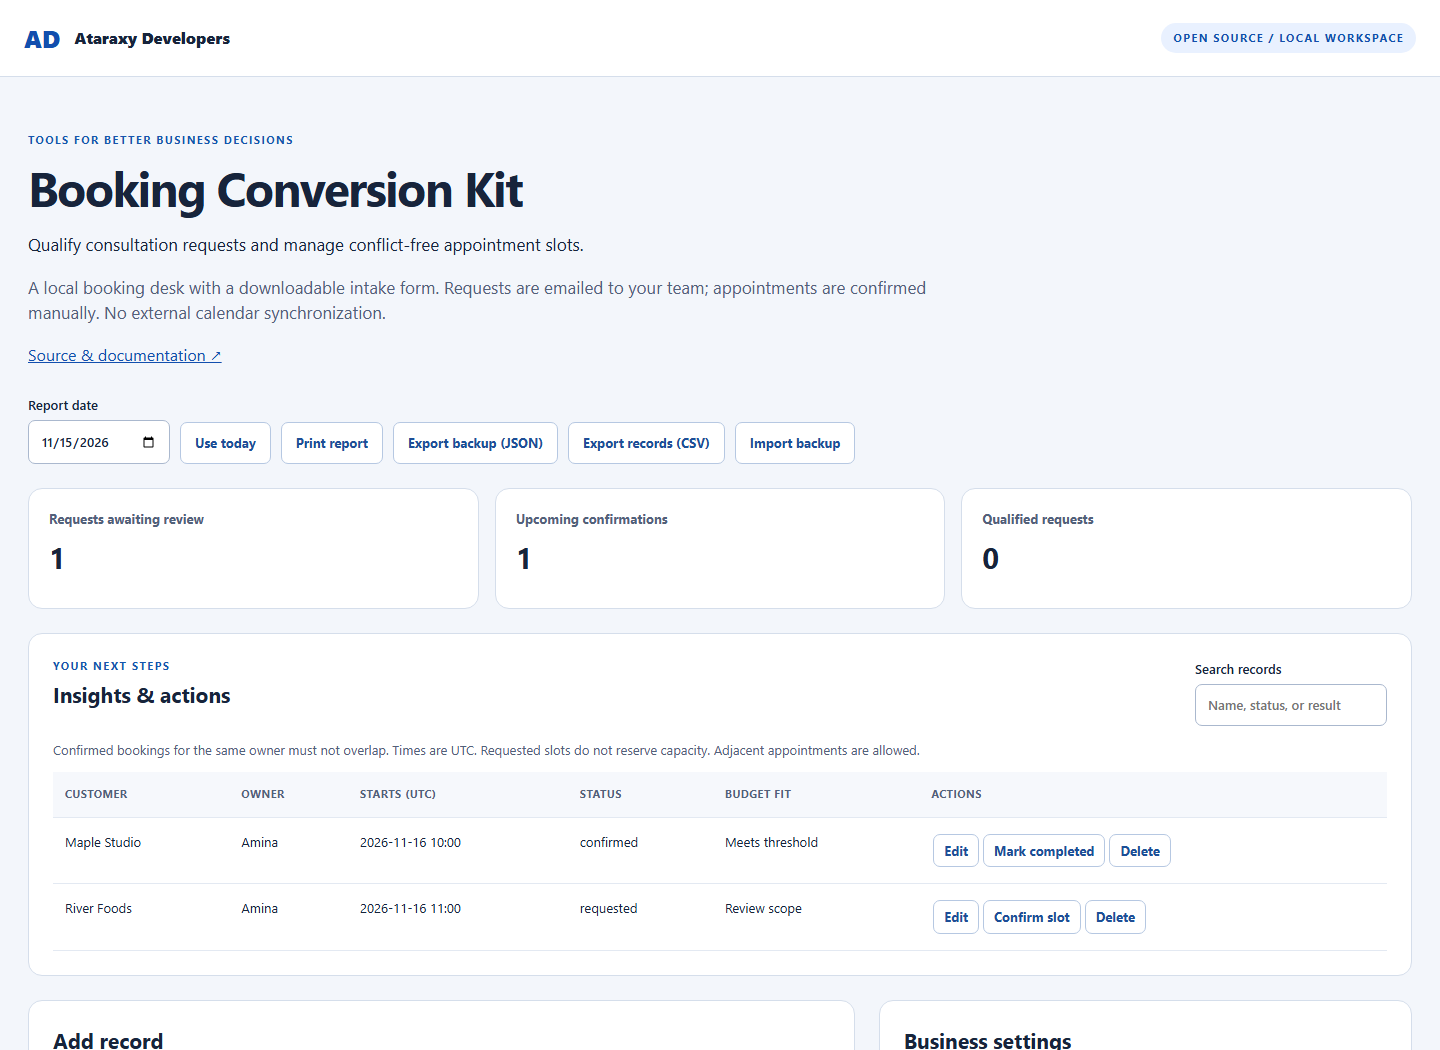
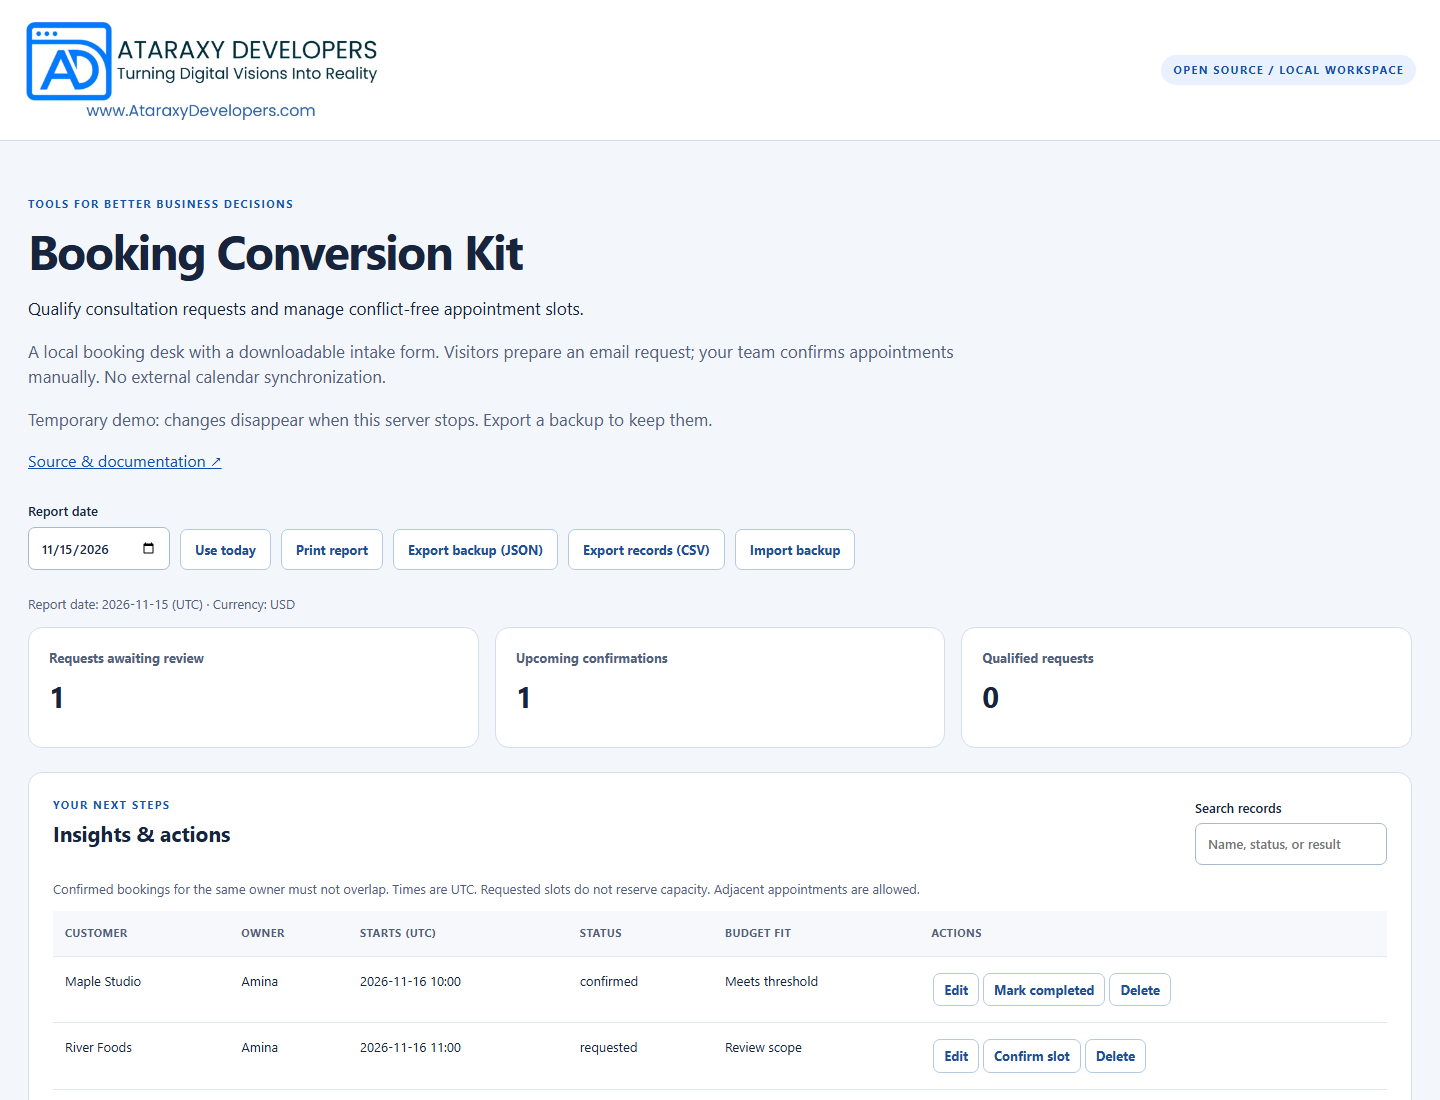
Use approved Ataraxy Developers branding

diff --git a/public/index.html b/public/index.html
@@ -4,16 +4,14 @@
     <meta charset="utf-8" />
     <meta name="viewport" content="width=device-width,initial-scale=1" />
     <title>Business workspace · Ataraxy Developers</title>
-    <link rel="icon" href="/favicon.svg" />
+    <link rel="icon" href="/ataraxy-developers-logo.png" type="image/png" />
     <link rel="stylesheet" href="/style.css" />
     <script type="module" src="/app.js"></script>
   </head>
   <body>
     <a class="skip" href="#main">Skip to workspace</a>
     <header>
-      <a class="brand" href="https://ataraxydevelopers.com"
-        >AD <span>Ataraxy Developers</span></a
-      ><span class="badge">OPEN SOURCE / LOCAL WORKSPACE</span>
+      <a class="brand" href="https://ataraxydevelopers.com"><img src="/ataraxy-developers-logo.png" alt="Ataraxy Developers — Turning Digital Visions Into Reality" width="1127" height="313" /></a><span class="badge">OPEN SOURCE / LOCAL WORKSPACE</span>
     </header>
     <main id="main">
       <section class="hero">

diff --git a/public/style.css b/public/style.css
@@ -40,10 +40,6 @@ header {
   font-weight: 800;
   text-decoration: none;
 }
-.brand span {
-  font-size: 16px;
-  color: #17243b;
-}
 .badge,
 .eyebrow {
   font-size: 11px;
@@ -364,3 +360,9 @@ footer {
     font-size: 27px;
   }
 }
+
+/* Use the complete, original company artwork without distortion. */
+header { flex-wrap: wrap; gap: 16px; background: #fff; }
+.brand { display: block; flex: 0 1 360px; min-width: 0; max-width: 100%; background: #fff; }
+.brand img { display: block; width: 360px; max-width: 100%; height: auto; }
+@media (max-width: 600px) { header { padding: 18px 20px; } .brand { flex-basis: 360px; } }

diff --git a/BRANDING.md b/BRANDING.md
@@ -1,0 +1,10 @@
+# Ataraxy Developers branding
+
+The company-approved logo is [public/ataraxy-developers-logo.png](public/ataraxy-developers-logo.png). It is the original PNG supplied by Ataraxy Developers on 2026-11-16, unchanged.
+
+- Preserve the complete artwork, its aspect ratio, and its white background.
+- Do not redraw it or substitute typed initials, an invented monogram, or generated artwork.
+- Use readable sizing and descriptive alternative text.
+- Capture screenshots from the working interface after this logo has loaded.
+
+SHA-256: 87ebc5a0092af0fff4524e805730ca3dc97c4483bd49f866528b8cdb97d422e7

diff --git a/README.md b/README.md
@@ -1,3 +1,5 @@
+<p><a href="https://ataraxydevelopers.com"><img src="public/ataraxy-developers-logo.png" alt="Ataraxy Developers — Turning Digital Visions Into Reality" width="520"></a></p>
+
 # Booking Conversion Kit
 
 [![CI](https://github.com/AtaraxyDevelopers/booking-conversion-kit/actions/workflows/ci.yml/badge.svg)](https://github.com/AtaraxyDevelopers/booking-conversion-kit/actions/workflows/ci.yml)

diff --git a/CHANGELOG.md b/CHANGELOG.md
@@ -1,5 +1,9 @@
 # Changelog
 
+## 0.1.2 — 2026-11-16
+
+Use the original, approved Ataraxy Developers logo and document its source. Update the interface and browser icon, serve the PNG correctly, and replace the README screenshot with a capture of the corrected app.
+
 ## 0.1.1
 
 - Correct optional date defaults when adding records.
